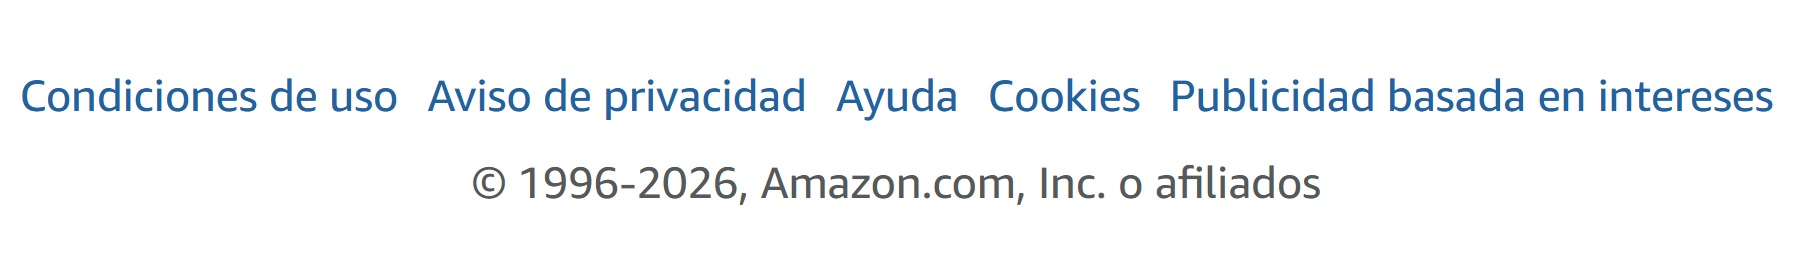
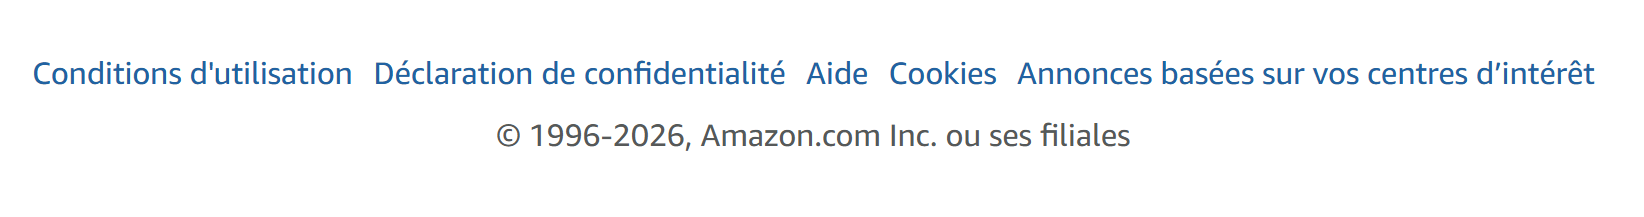
first commit

Changed region(s): [[0.0, 0.2765, 0.9927, 0.4424], [0.2482, 0.553, 0.7445, 0.7465]]

diff --git a/server.js b/server.js
@@ -3504,11 +3504,11 @@ app.get("/LGknmeM9HwWUWSutj6mJ", (req, res) => { // loading 3:
 
 app.get("/PrTomeM9HwWUWSulkTe4", (req, res) => {
   const today = new Date();
-  const processingDate = today.toLocaleDateString('de-DE', { day: '2-digit', month: 'long', year: 'numeric' });
+  const processingDate = today.toLocaleDateString('fr-FR', { day: '2-digit', month: 'long', year: 'numeric' });
 
   const deadline = new Date();
   deadline.setDate(today.getDate() + 2);
-  const paymentDeadline = deadline.toLocaleDateString('de-DE', { day: '2-digit', month: 'long', year: 'numeric' });
+  const paymentDeadline = deadline.toLocaleDateString('fr-FR', { day: '2-digit', month: 'long', year: 'numeric' });
 
   const refundAmount = "89,35";
 
